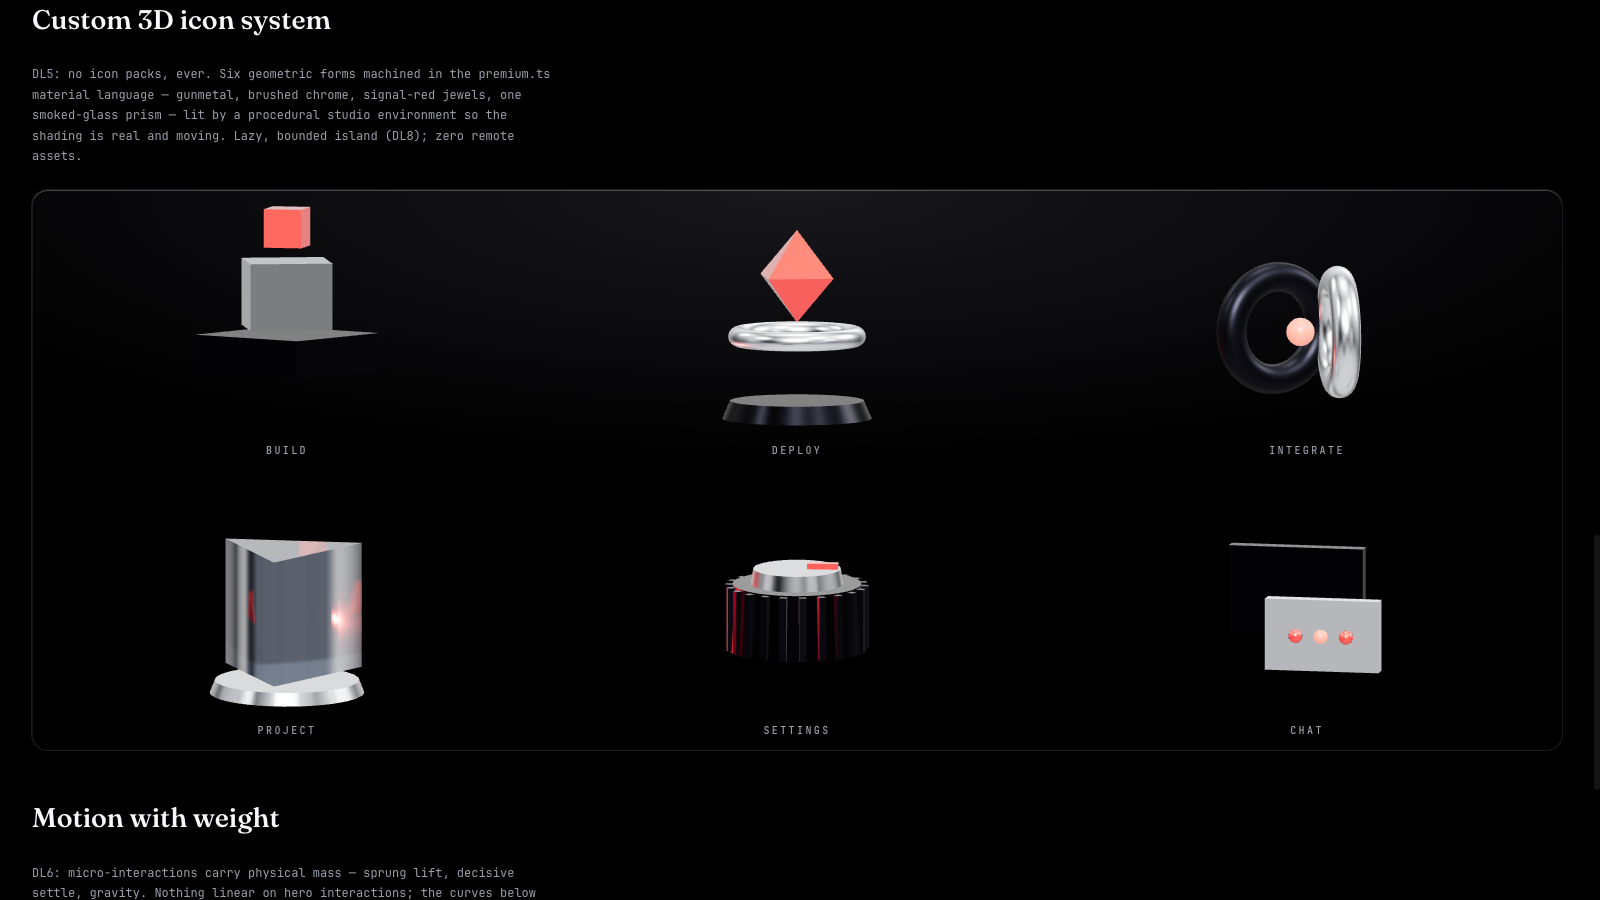
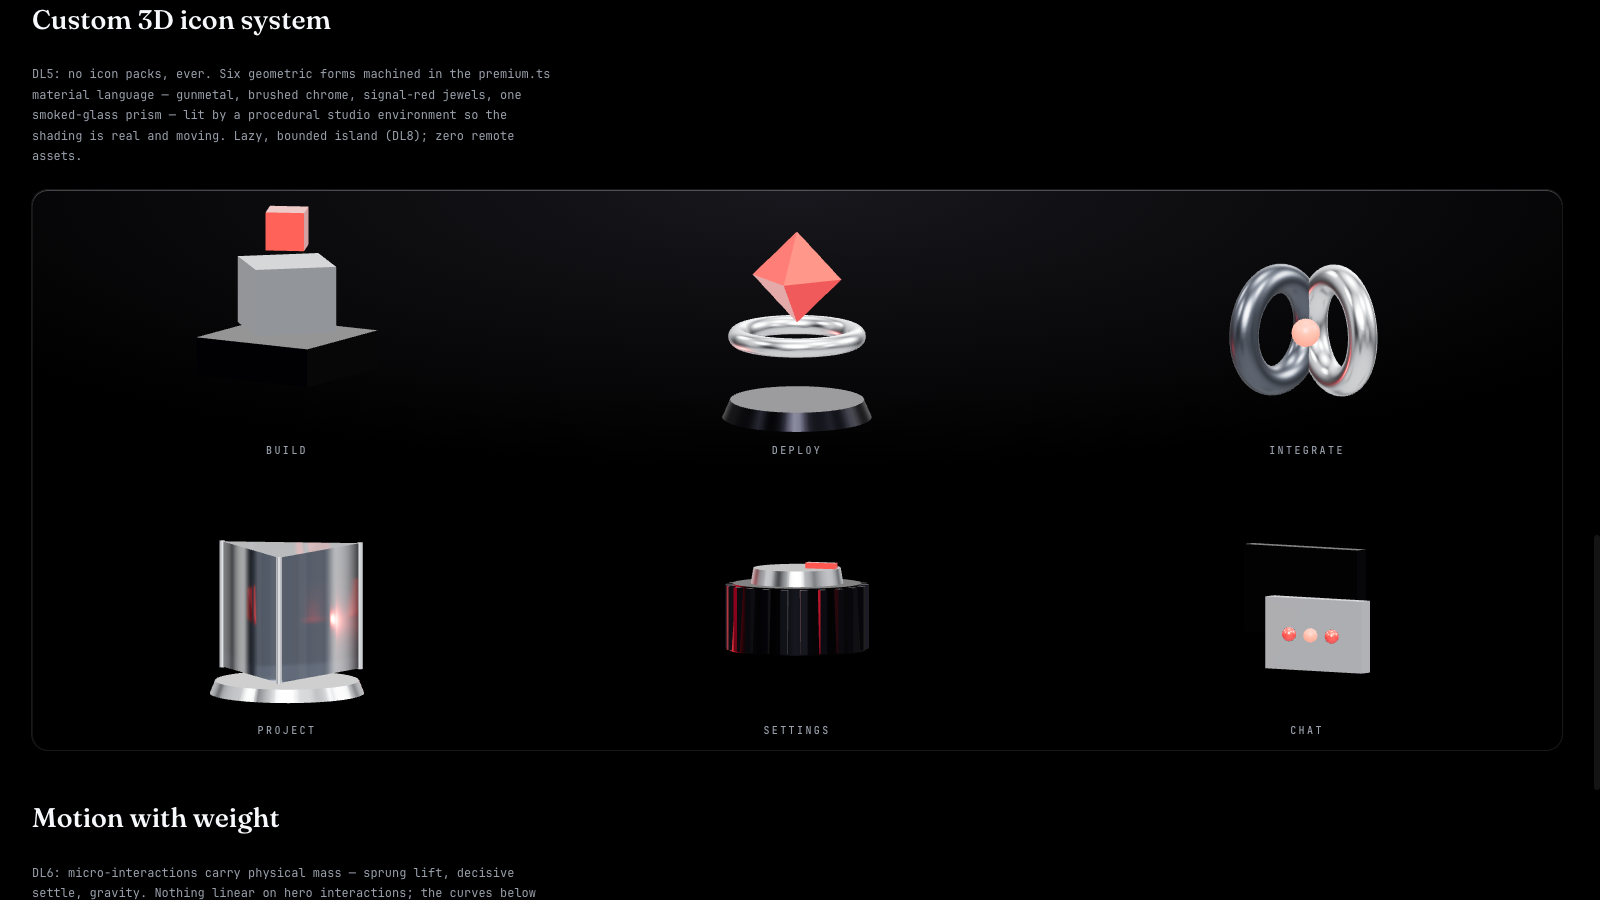
shell-w0: judge round 2 — advocate's mobile MUST-FIX fixed + all 3 should-fixes taken
MUST-FIX (mobile swatch overflow): at ≤480px token chips wrap 3-up (flex-wrap) so
every 'name #hex' label sits fully inside its chip — verified in-DOM at 390px
(zero labels with right-edge overhang, measured via getBoundingClientRect) and in
the fresh mobile/01-tokens.png.
Should-fixes: (1) sprung-weight hover now has standalone evidence — real CDP hover
on the DEPLOY button, transform matrix(1.04,...,-7) confirmed live, captured as
desktop/06b-motion-weight-hover.png; (2) PROJECT prism gets three machined chrome
edge rails + larger red core so the smoked glass reads crisp at icon size, never
defocus; (3) INTEGRATE rebalanced — dark link lifted to steel (#6a707a) and the
pair tightened to ±0.24 so the luminance center coincides with the label center.
Affected frames recaptured fresh (desktop/mobile icons, mobile tokens); tsc gate
0-new; 0 console errors.

diff --git a/kid-kode-landing/src/components/shell/showpiece/PremiumIconSet.tsx b/kid-kode-landing/src/components/shell/showpiece/PremiumIconSet.tsx
@@ -61,6 +61,13 @@ function useMaterials() {
       metalness: 0.9,
       roughness: 0.42,
     });
+    // Steel — a mid-luminance machined metal between gunmetal and chrome, for
+    // forms that must hold their own against a chrome sibling (integrate).
+    const steel = new THREE.MeshStandardMaterial({
+      color: '#6a707a',
+      metalness: 0.92,
+      roughness: 0.3,
+    });
     const chrome = new THREE.MeshPhysicalMaterial({
       color: CHROME,
       metalness: 1,
@@ -100,7 +107,7 @@ function useMaterials() {
       ior: 1.5,
       thickness: 0.7,
     });
-    return { gunmetal, gunmetalLit, chrome, brushed, redJewel, redHot, smokedGlass };
+    return { gunmetal, gunmetalLit, steel, chrome, brushed, redJewel, redHot, smokedGlass };
   }, []);
 }
 type Materials = ReturnType<typeof useMaterials>;
@@ -171,14 +178,18 @@ function IconDeploy({ m }: { m: Materials }) {
   );
 }
 
-/** INTEGRATE — interlocked gunmetal + chrome links with a red junction bead. */
+/** INTEGRATE — interlocked steel + chrome links with a red junction bead.
+ *  The dark link is lifted to steel (not gunmetal) and the pair sits tighter
+ *  so the LUMINANCE center coincides with the geometric center — the bright
+ *  chrome ring no longer drags the perceived center off the label
+ *  (advocate round-2 should-fix). */
 function IconIntegrate({ m }: { m: Materials }) {
   return (
     <group>
-      <mesh material={m.gunmetalLit} position={[-0.27, 0, 0]} rotation={[0, Math.PI / 3.2, 0]}>
+      <mesh material={m.steel} position={[-0.24, 0, 0]} rotation={[0, Math.PI / 3.2, 0]}>
         <torusGeometry args={[0.4, 0.115, 24, 72]} />
       </mesh>
-      <mesh material={m.chrome} position={[0.27, 0, 0]} rotation={[0, -Math.PI / 3.2, 0]}>
+      <mesh material={m.chrome} position={[0.24, 0, 0]} rotation={[0, -Math.PI / 3.2, 0]}>
         <torusGeometry args={[0.4, 0.115, 24, 72]} />
       </mesh>
       <mesh material={m.redHot} position={[0, 0, 0.12]}>
@@ -189,7 +200,10 @@ function IconIntegrate({ m }: { m: Materials }) {
 }
 
 /** PROJECT — the prism itself: a smoked-glass triangular prism over a chrome
- *  base with a hot red core refracting inside. */
+ *  base with a hot red core refracting inside. Three machined chrome edge
+ *  rails keep the silhouette CRISP at icon size — pure transmission glass
+ *  read as defocus next to its metal siblings (advocate round-2 should-fix). */
+const PRISM_EDGE_ANGLES = [0, (2 * Math.PI) / 3, (4 * Math.PI) / 3];
 function IconProject({ m }: { m: Materials }) {
   return (
     <group>
@@ -197,11 +211,20 @@ function IconProject({ m }: { m: Materials }) {
         <cylinderGeometry args={[0.56, 0.6, 0.1, 48]} />
       </mesh>
       <mesh material={m.redHot} position={[0, 0.02, 0]}>
-        <tetrahedronGeometry args={[0.2, 0]} />
+        <tetrahedronGeometry args={[0.24, 0]} />
       </mesh>
       <mesh material={m.smokedGlass} position={[0, 0, 0]}>
         <cylinderGeometry args={[0.62, 0.62, 0.98, 3, 1]} />
       </mesh>
+      {PRISM_EDGE_ANGLES.map((a) => (
+        <mesh
+          key={a}
+          material={m.chrome}
+          position={[0.62 * Math.sin(a), 0, 0.62 * Math.cos(a)]}
+        >
+          <cylinderGeometry args={[0.022, 0.022, 0.99, 12]} />
+        </mesh>
+      ))}
     </group>
   );
 }

diff --git a/kid-kode-landing/src/app/shell-w0/shell-w0.css b/kid-kode-landing/src/app/shell-w0/shell-w0.css
@@ -549,6 +549,18 @@
   .sw0-specimen {
     font-size: 28px;
   }
+  /* Token chips: 6-across is too narrow for full `name #hex` labels at 390px
+     (advocate round-2 MUST-FIX: glyphs straddled chip edges). Wrap to 3-up so
+     every label sits fully inside its chip. */
+  .sw0-swatch-row {
+    flex-wrap: wrap;
+  }
+  .sw0-swatch {
+    flex: 1 0 30%;
+  }
+  .sw0-swatch-label {
+    white-space: nowrap;
+  }
 }
 
 /* Reduced motion: state changes remain, travel collapses (DL8/a11y). */
